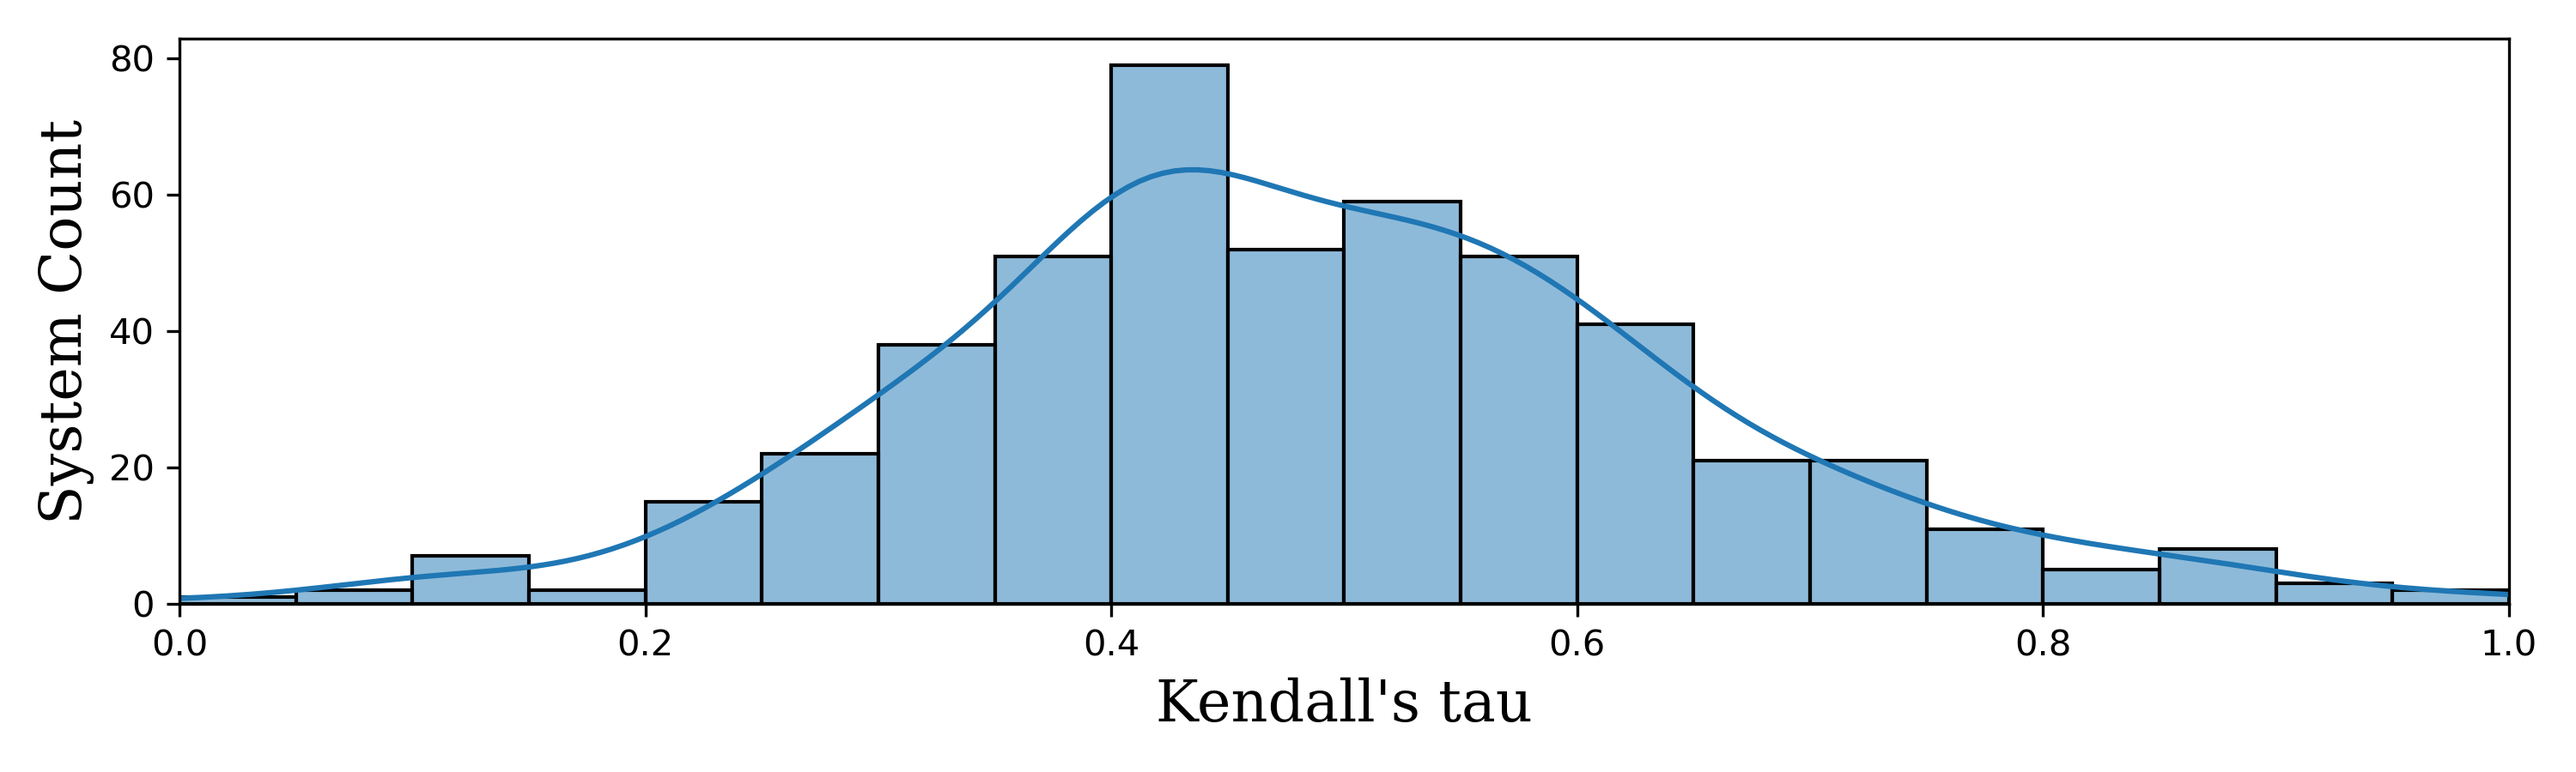
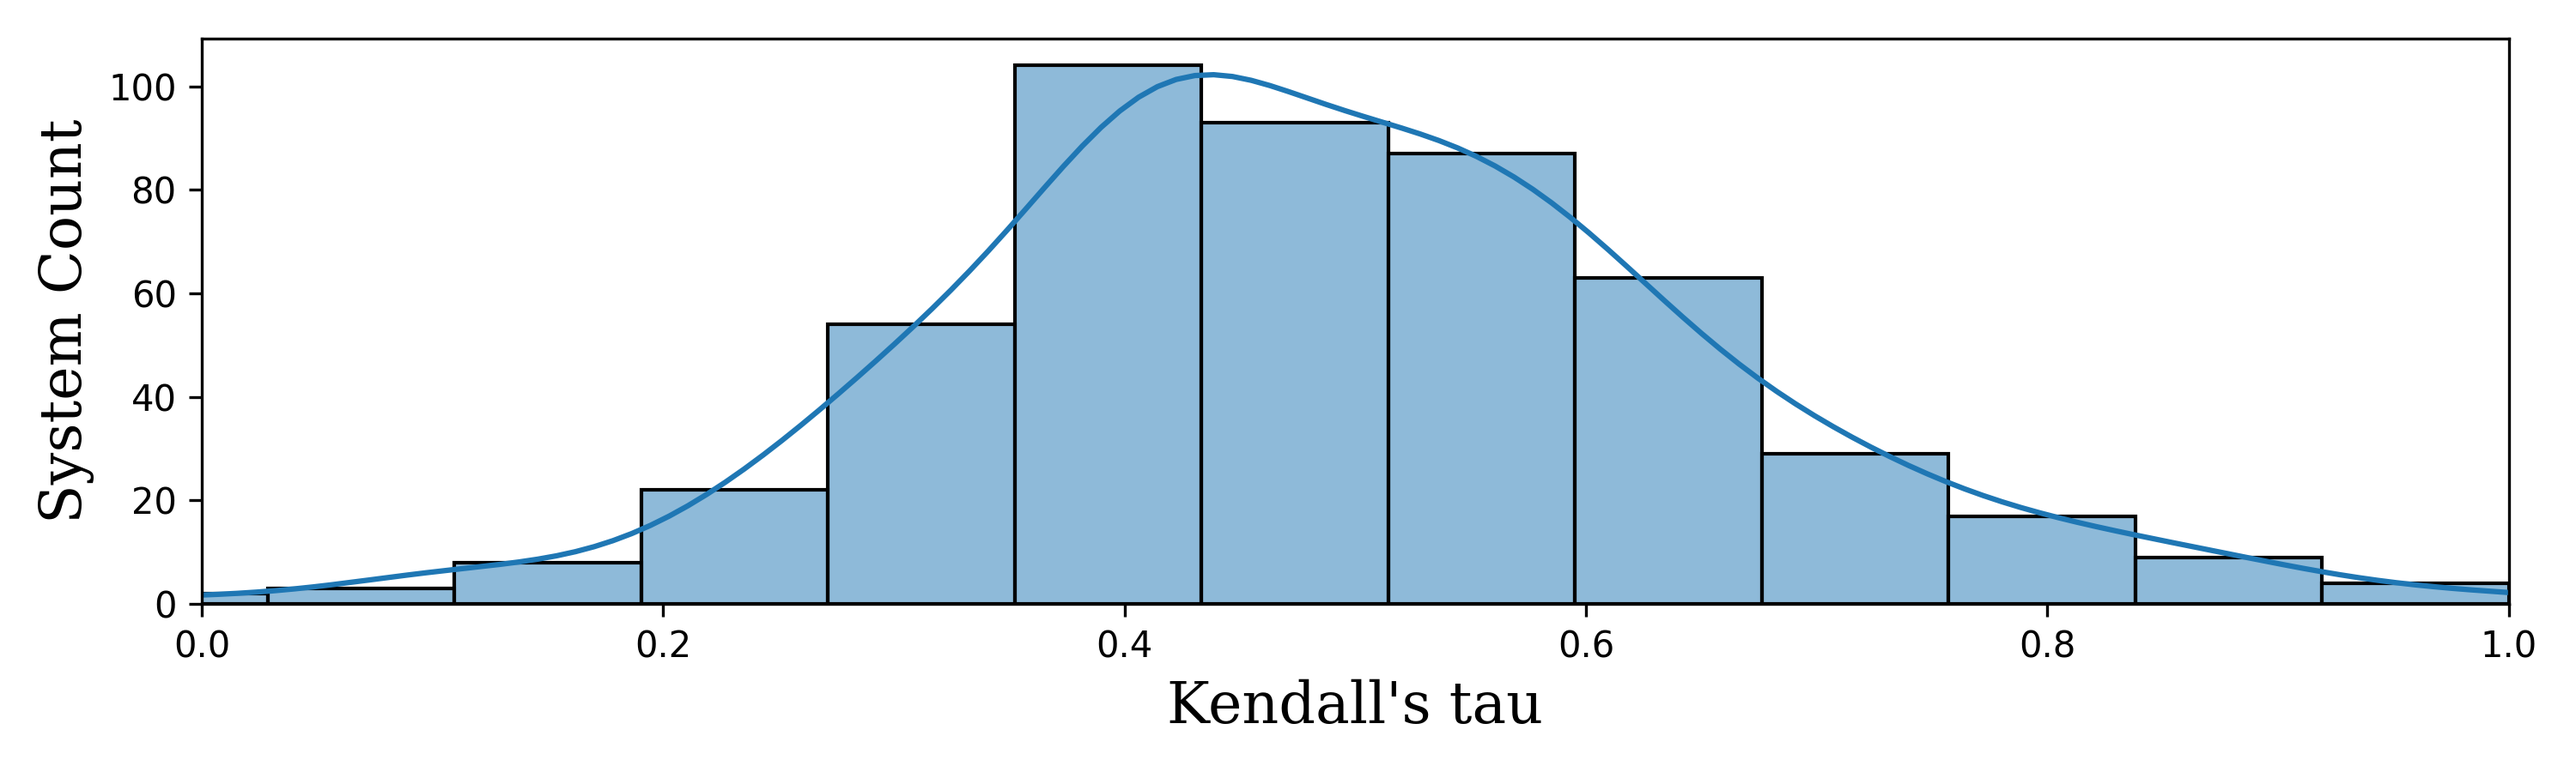
Update root summary table for the covalent entries
Regenerates the summary table and the RMSE / Kendall tau distribution
figures with scripts/update_summary_table.py, now that the covalent and
protein entries from #58 are on main.

Total Systems 491 -> 496, Total Ligands 9612 -> 9659.

The five protein point-mutation entries are not picked up: the script reads
result_dG.csv and per-ligand dG columns, while those entries store ddG upon
mutation in result_ddG.csv -- the same reason the existing sch_edgewise
entry is absent from this table. Their results are tabulated in
docs/protein-fep-benchmark/README.md. Happy to extend the script to cover
ddG-based entries if that is wanted.

diff --git a/README.md b/README.md
@@ -34,8 +34,8 @@ For more details, please refer to our [FEP Open Challenge introduction](https://
 
 
 ## Summary of Benchmark Results
-**Total Systems**: 491  
-**Total Ligands**: 9612
+**Total Systems**: 496  
+**Total Ligands**: 9659
 ![RMSE Distribution](rmse_distribution.png)
 ![Kendall's tau Distribution](tau_distribution.png)
 | Series | Target | N_Ligands | RMSE (kcal/mol) | R² | Kendall's tau | Description |
@@ -479,6 +479,11 @@ For more details, please refer to our [FEP Open Challenge introduction](https://
 | ChEMBL | USP7 | 12 | 1.22 | 0.28 | 0.00 | CHEMBL5234060 |
 | ChEMBL | WDR5 | 38 | 1.78 | 0.47 | 0.56 | CHEMBL3875502 |
 | ChEMBL | WEE1 | 10 | 1.44 | 0.48 | 0.58 | CHEMBL5230681 |
+| Covalent | CAPN1 | 7 | 0.70 | 0.02 | -0.05 | Chatterjee1996 |
+| Covalent | CRUZAIN | 20 | 0.86 | 0.43 | 0.36 | Avelar2015 |
+| Covalent | hCatL | 8 | 0.86 | 0.47 | 0.69 | Bonatto2021 |
+| Covalent | hCatL | 7 | 1.43 | 0.35 | -0.62 | Hardegger2011 |
+| Covalent | hCatL | 5 | 0.40 | 0.81 | 0.80 | Lameira2019 |
 | CyclicPeptide | Menin | 16 | 0.90 | 0.46 | 0.50 |  |
 | CyclicPeptide | PCSK9 | 18 | 0.77 | 0.51 | 0.47 |  |
 | GPCR | A2A | 10 | 0.76 | 0.83 | 0.69 | Deflorian |
